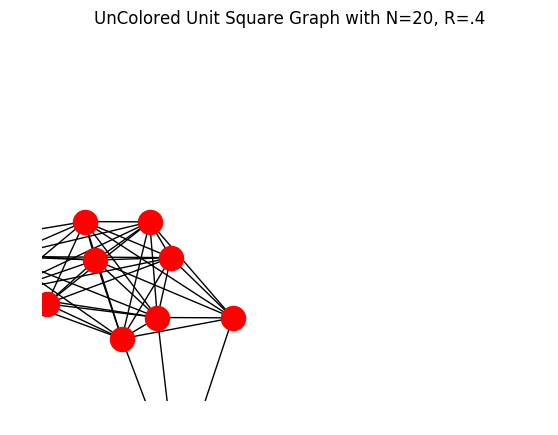
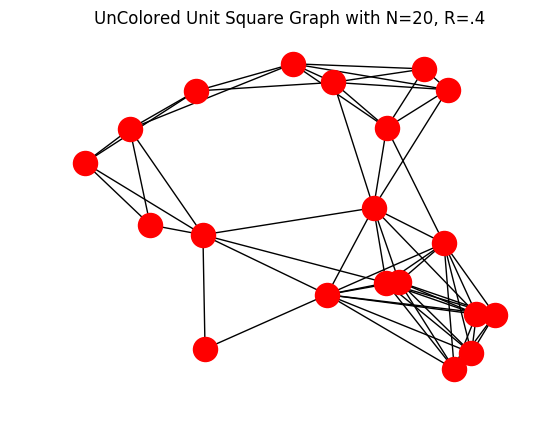
steps of SLVO done

diff --git a/main_drivers/walkthrough_vis.py b/main_drivers/walkthrough_vis.py
@@ -70,36 +70,40 @@ def draw_ordering_graph(ordering_states, positions):
     y = 0
     for state in ordering_states[:-1]:
         G = nx.Graph()
+        pos = {}
         for index, position in enumerate(positions):
             if state[index] is False:
                 continue
+            pos[index]=position
             G.add_node(index, pos=position, size=1)
         for node, neighbors in enumerate(state):
             if neighbors is False:
                 continue
             for neighbor in neighbors:
                 G.add_edge(node, neighbor)
-        nx.draw(G, node_color="blue", ax=axes[y, x], node_size=50)
+        nx.draw(G, pos=pos,node_color="blue", ax=axes[y, x], node_size=50)
         if x == 4:
             x = 0
             y = y + 1
         else:
             x = x + 1
-    plt.title("Visualization of the removal of nodes during SLVO")
+    plt.suptitle("Visualization of the removal of nodes during SLVO")
     plt.savefig("../results/walkthrough/ordering.png", bbox_inches="tight")
 
 def draw_uncolored(adj_list, positions):
     plt.clf()
     G = nx.Graph()
+    pos = {}
     for index, position in enumerate(positions):
-        G.add_node(index, pos=position)
+        G.add_node(index)
+        pos[index] = position
 
     for node, neighbors in enumerate(adj_list):
         for neighbor in neighbors:
             G.add_edge(node, neighbor)
 
     plt.title("UnColored Unit Square Graph with N=20, R=.4")
-    nx.draw(G)
+    nx.draw(G, pos=pos)
     plt.savefig("../results/walkthrough/uncolored.png", bbox_inches="tight")
 
 def draw_colored(adj_list, positions, coloring):
@@ -107,15 +111,18 @@ def draw_colored(adj_list, positions, coloring):
     colors = ['#6A1B9A', '#D50000', '#AEEA00', '#00B0FF', '#00B8D4', '#00BFA5', '#00C853', '#DD2C00', '#FFFF00']
     G = nx.Graph()
     color_map = [colors[color] for color in coloring]
+    pos={}
     for node, position in enumerate(positions):
         G.add_node(node, pos=position)
+        pos[node] = position
+
 
     for node, neighbors in enumerate(adj_list):
         for neighbor in neighbors:
             G.add_edge(node, neighbor)
 
     plt.title("Colored Unit Square Graph with N=20, R=.4")
-    nx.draw(G)
+    nx.draw(G, pos=pos, node_color=color_map)
     plt.savefig("../results/walkthrough/colored.png", bbox_inches="tight")
 
 if __name__ == "__main__":
